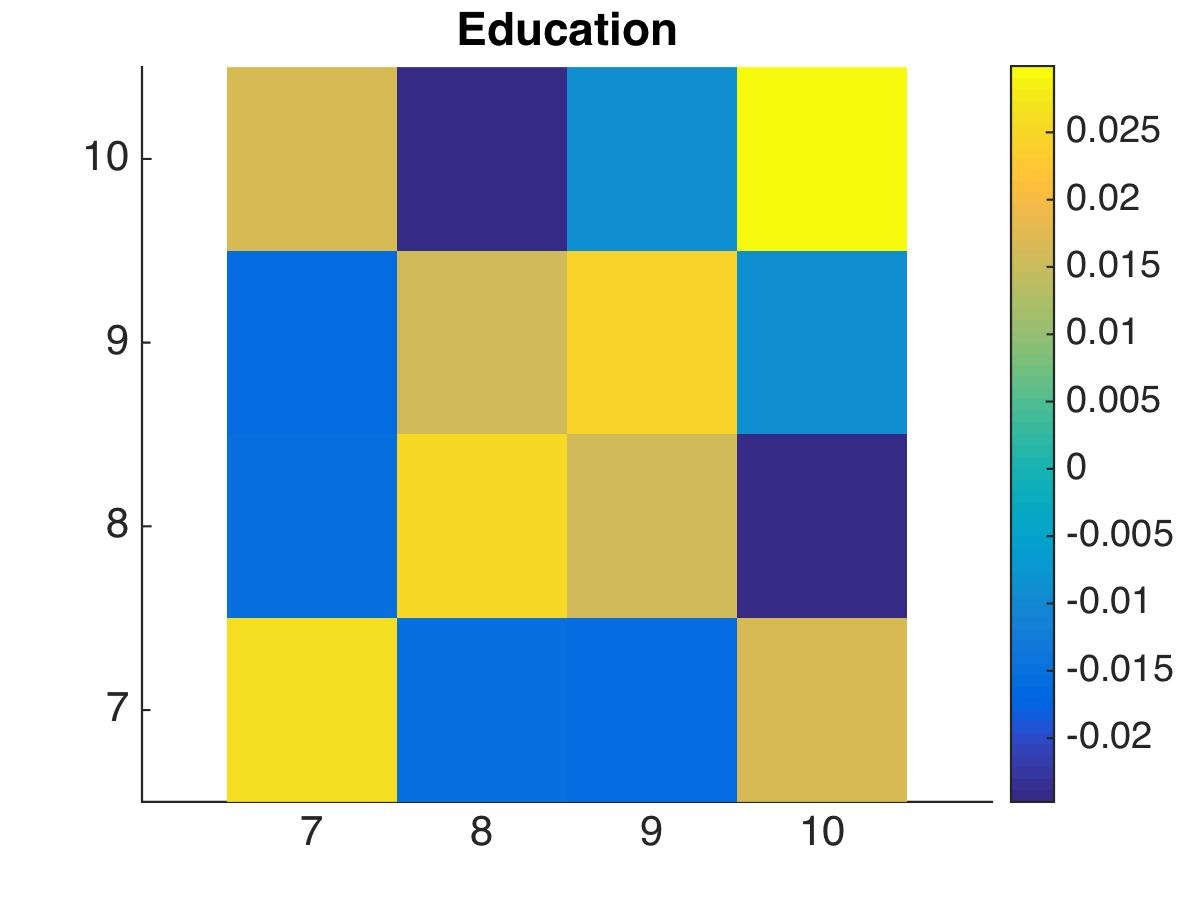
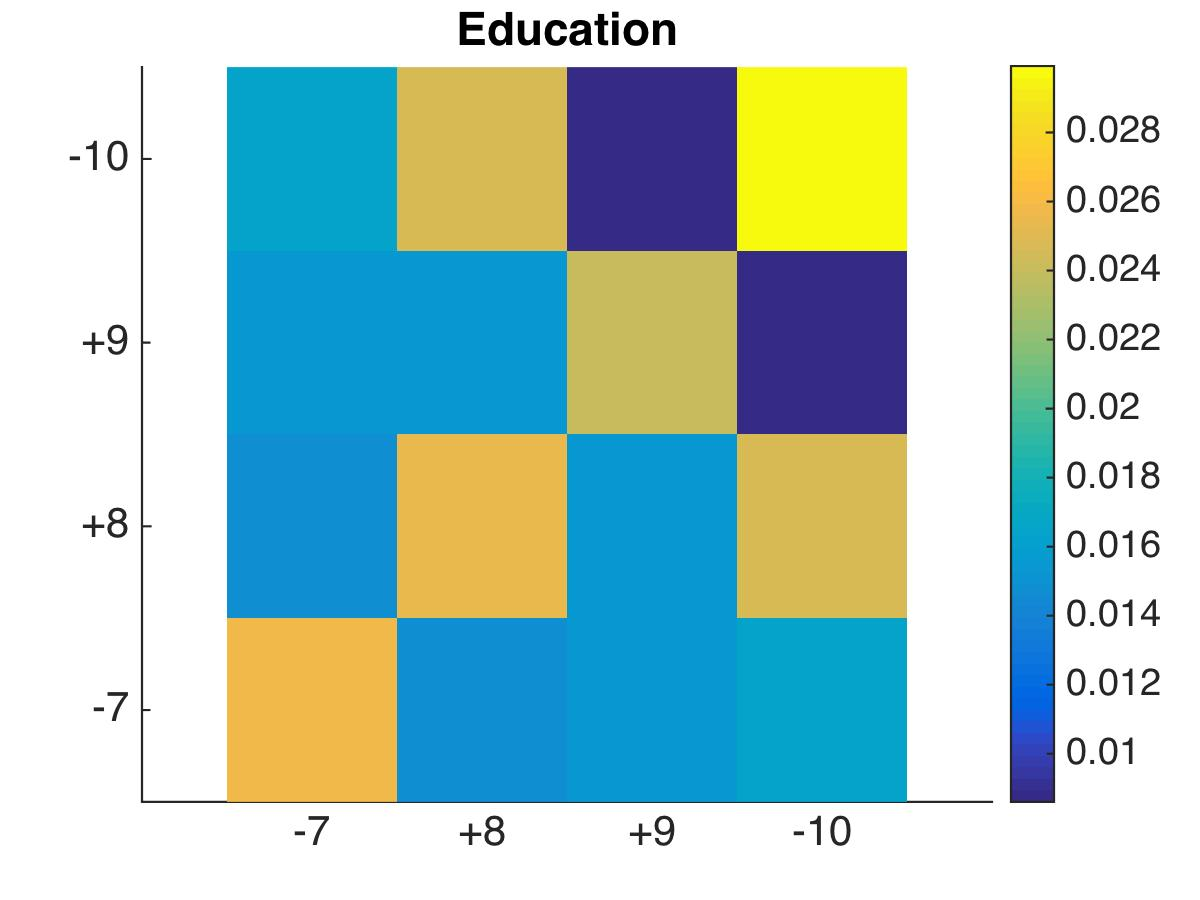
Added sign.

diff --git a/public/covvar.html b/public/covvar.html
@@ -1,1 +1,1 @@
-<head><title>Covariance</title></head><h1><a href="">Covariance and Correlation</a><a href="../">Home</a></h1><link rel="stylesheet" type="text/css" href="main.css"><style type="text/css">img{height:450;}</style><table border=1><tr><th>Subdomain</th> <th>Covariance</th> <th>Correlation</th> <th>Cronbach's alpha</th> </tr><tr><th>Economy</th><td><a href="covariance/Economy.jpg" target=_blank><img src="covariance/Economy.jpg"></a></td><td><a href="pairs/Economy.jpg" target=_blank><img src="pairs/Economy.jpg"></a></td></tr><tr><th>Education</th><td><a href="covariance/Education.jpg" target=_blank><img src="covariance/Education.jpg"></a></td><td><a href="pairs/Education.jpg" target=_blank><img src="pairs/Education.jpg"></a></td></tr><tr><th>Food and Water</th><td><a href="covariance/Food and Water.jpg" target=_blank><img src="covariance/Food and Water.jpg"></a></td><td><a href="pairs/Food and Water.jpg" target=_blank><img src="pairs/Food and Water.jpg"></a></td></tr><tr><th>Government</th><td><a href="covariance/Government.jpg" target=_blank><img src="covariance/Government.jpg"></a></td><td><a href="pairs/Government.jpg" target=_blank><img src="pairs/Government.jpg"></a></td></tr><tr><th>Housing</th><td><a href="covariance/Housing.jpg" target=_blank><img src="covariance/Housing.jpg"></a></td><td><a href="pairs/Housing.jpg" target=_blank><img src="pairs/Housing.jpg"></a></td></tr><tr><th>Medicine and Healthcare</th><td><a href="covariance/Medicine and Healthcare.jpg" target=_blank><img src="covariance/Medicine and Healthcare.jpg"></a></td><td><a href="pairs/Medicine and Healthcare.jpg" target=_blank><img src="pairs/Medicine and Healthcare.jpg"></a></td></tr><tr><th>Nurturing and Care</th><td><a href="covariance/Nurturing and Care.jpg" target=_blank><img src="covariance/Nurturing and Care.jpg"></a></td><td><a href="pairs/Nurturing and Care.jpg" target=_blank><img src="pairs/Nurturing and Care.jpg"></a></td></tr><tr><th>Well being</th><td><a href="covariance/Well being.jpg" target=_blank><img src="covariance/Well being.jpg"></a></td><td><a href="pairs/Well being.jpg" target=_blank><img src="pairs/Well being.jpg"></a></td></tr><tr><th>Engineered Systems</th><td><a href="covariance/Engineered Systems.jpg" target=_blank><img src="covariance/Engineered Systems.jpg"></a></td><td><a href="pairs/Engineered Systems.jpg" target=_blank><img src="pairs/Engineered Systems.jpg"></a></td></tr><tr><th>Vulnerability</th><td><a href="covariance/Vulnerability.jpg" target=_blank><img src="covariance/Vulnerability.jpg"></a></td><td><a href="pairs/Vulnerability.jpg" target=_blank><img src="pairs/Vulnerability.jpg"></a></td></tr><tr><th>Deprivation</th><td><a href="covariance/Deprivation.jpg" target=_blank><img src="covariance/Deprivation.jpg"></a></td><td><a href="pairs/Deprivation.jpg" target=_blank><img src="pairs/Deprivation.jpg"></a></td></tr><tr><th>Social Cohesion</th><td><a href="covariance/Social Cohesion.jpg" target=_blank><img src="covariance/Social Cohesion.jpg"></a></td><td><a href="pairs/Social Cohesion.jpg" target=_blank><img src="pairs/Social Cohesion.jpg"></a></td></tr>
+<head><title>Covariance</title></head><h1><a href="">Covariance and Correlation</a><a href="../">Home</a></h1><link rel="stylesheet" type="text/css" href="main.css"><style type="text/css">img{height:450;}</style><table border=1><tr><th>Subdomain</th> <th>Covariance</th> <th>Correlation</th> <th>Cronbach's alpha</th> </tr><tr><th>Economy</th><td><a href="covariance/Economy.jpg" target=_blank><img src="covariance/Economy.jpg"></a></td><td><a href="pairs/Economy.jpg" target=_blank><img src="pairs/Economy.jpg"></a></td></tr><tr><th>Education</th><td><a href="covariance/Education.jpg" target=_blank><img src="covariance/Education.jpg"></a></td><td><a href="pairs/Education.jpg" target=_blank><img src="pairs/Education.jpg"></a></td></tr><tr><th>FoodandWater</th><td><a href="covariance/FoodandWater.jpg" target=_blank><img src="covariance/FoodandWater.jpg"></a></td><td><a href="pairs/FoodandWater.jpg" target=_blank><img src="pairs/FoodandWater.jpg"></a></td></tr><tr><th>Government</th><td><a href="covariance/Government.jpg" target=_blank><img src="covariance/Government.jpg"></a></td><td><a href="pairs/Government.jpg" target=_blank><img src="pairs/Government.jpg"></a></td></tr><tr><th>Housing</th><td><a href="covariance/Housing.jpg" target=_blank><img src="covariance/Housing.jpg"></a></td><td><a href="pairs/Housing.jpg" target=_blank><img src="pairs/Housing.jpg"></a></td></tr><tr><th>MedicineandHealthcare</th><td><a href="covariance/MedicineandHealthcare.jpg" target=_blank><img src="covariance/MedicineandHealthcare.jpg"></a></td><td><a href="pairs/MedicineandHealthcare.jpg" target=_blank><img src="pairs/MedicineandHealthcare.jpg"></a></td></tr><tr><th>NurturingandCare</th><td><a href="covariance/NurturingandCare.jpg" target=_blank><img src="covariance/NurturingandCare.jpg"></a></td><td><a href="pairs/NurturingandCare.jpg" target=_blank><img src="pairs/NurturingandCare.jpg"></a></td></tr><tr><th>Wellbeing</th><td><a href="covariance/Wellbeing.jpg" target=_blank><img src="covariance/Wellbeing.jpg"></a></td><td><a href="pairs/Wellbeing.jpg" target=_blank><img src="pairs/Wellbeing.jpg"></a></td></tr><tr><th>EngineeredSystems</th><td><a href="covariance/EngineeredSystems.jpg" target=_blank><img src="covariance/EngineeredSystems.jpg"></a></td><td><a href="pairs/EngineeredSystems.jpg" target=_blank><img src="pairs/EngineeredSystems.jpg"></a></td></tr><tr><th>Vulnerability</th><td><a href="covariance/Vulnerability.jpg" target=_blank><img src="covariance/Vulnerability.jpg"></a></td><td><a href="pairs/Vulnerability.jpg" target=_blank><img src="pairs/Vulnerability.jpg"></a></td></tr><tr><th>Deprivation</th><td><a href="covariance/Deprivation.jpg" target=_blank><img src="covariance/Deprivation.jpg"></a></td><td><a href="pairs/Deprivation.jpg" target=_blank><img src="pairs/Deprivation.jpg"></a></td></tr><tr><th>SocialCohesion</th><td><a href="covariance/SocialCohesion.jpg" target=_blank><img src="covariance/SocialCohesion.jpg"></a></td><td><a href="pairs/SocialCohesion.jpg" target=_blank><img src="pairs/SocialCohesion.jpg"></a></td></tr>

diff --git a/test.html b/test.html
@@ -1,0 +1,1 @@
+<a href="data/1.csv">1</a>, <a href="data/3.csv">3</a>, <a href="data/4.csv">4</a>, <a href="data/5.csv">5</a>, <a href="data/6.csv">6</a>, <a href="data/7.csv">7</a>, <a href="data/8.csv">8</a>, <a href="data/9.csv">9</a>, <a href="data/10.csv">10</a>, <a href="data/11.csv">11</a>, <a href="data/12.csv">12</a>, <a href="data/14.csv">14</a>, <a href="data/15.csv">15</a>, <a href="data/16.csv">16</a>, <a href="data/17.csv">17</a>, <a href="data/18.csv">18</a>, <a href="data/19.csv">19</a>, <a href="data/20.csv">20</a>, <a href="data/21.csv">21</a>, <a href="data/22.csv">22</a>, <a href="data/23.csv">23</a>, <a href="data/24.csv">24</a>, <a href="data/25a.csv">25a</a>, <a href="data/25b.csv">25b</a>, <a href="data/26.csv">26</a>, <a href="data/30.csv">30</a>, <a href="data/31.csv">31</a>, <a href="data/32.csv">32</a>, <a href="data/38.csv">38</a>, <a href="data/42.csv">42</a>, <a href="data/43.csv">43</a>, <a href="data/44.csv">44</a>, <a href="data/45.csv">45</a>, <a href="data/48.csv">48</a>, <a href="data/49.csv">49</a>, <a href="data/50a.csv">50a</a>, <a href="data/50b.csv">50b</a>, <a href="data/51.csv">51</a>, <a href="data/52.csv">52</a>, <a href="data/54.csv">54</a>, <a href="data/55.csv">55</a>, <a href="data/56.csv">56</a>, <a href="data/57.csv">57</a>, <a href="data/60.csv">60</a>, <a href="data/63.csv">63</a>, <a href="data/64.csv">64</a>, <a href="data/65.csv">65</a>, <a href="data/66.csv">66</a>, <a href="data/67.csv">67</a>, <a href="data/68.csv">68</a>, <a href="data/69.csv">69</a>, <a href="data/73.csv">73</a>, <a href="data/74.csv">74</a>, <a href="data/75.csv">75</a>, <a href="data/76.csv">76</a>, <a href="data/77.csv">77</a>, <a href="data/78.csv">78</a>, <a href="data/901.csv">901</a>, <a href="data/902.csv">902</a>, 

diff --git a/subdomain.m b/subdomain.m
@@ -1,64 +1,13 @@
-function subdomain()
+%function subdomain()
+clear, clc
 %% Definition of print and plot functions
-format_img = @(filename) sprintf('<a href="%s" target=_blank><img src="%s"></a>', filename, filename);
-    function plotCov(arr, measures, subdomain)
-        filelink = sprintf('covariance/%s.jpg', subdomain);
-        filepath = ['public/', filelink];
-        if ~exist(filepath, 'file')
-            N = size(arr, 2);
-            clf, hold on;
-            imagesc(1:N, 1:N, cov(arr));
-            colorbar
-            set(gca, 'FontSize', 20);
-            set(gca, 'XTick', 1:N);
-            set(gca, 'YTick', 1:N);
-            set(gca, 'XTickLabel', measures);
-            set(gca, 'YTickLabel', measures);
-            title(subdomain);
-            saveas(gcf, filepath);
-        end
-        fprintf(fid, '<td>%s</td>', format_img(filelink));
-    end
 
-    function plotPairs(arr, measures, subdomain)
-        filelink = sprintf('pairs/%s.jpg', subdomain);
-        filepath = ['public/', filelink];
-        if ~exist(filepath, 'file')
-            clf, hold on;
-            corrplot(arr, 'varNames', measures);
-            saveas(gcf, filepath);
-        end
-        fprintf(fid, '<td>%s</td>', format_img(filelink));
-    end
-    function [arr, measureList] = fetch_data(measures)
-        measureList = strsplit(measures);
-        for i = 1:length(measureList)
-            id = measureList{i};
-            filename = sprintf('data_scaled/%s.csv', id);
-            T = readtable(filename);
-            T.Properties.VariableNames{'value'} = ['measure', id];
-            if i == 1
-                Tall = T;
-            else
-                Tall = innerjoin(Tall, T);
-            end
-        end
-        arr = table2array(Tall);
-        arr = arr(:, 2:end);
-    end
 %% Begin of main
-toplot = {{'3 4 5 6', 'Economy'};
-    {'7 8 9 10', 'Education'};
-    {'11 12 14 68', 'Food and Water'};
-    {'15 16 17 18', 'Government'};
-    {'19 20 21 22', 'Housing'};
-    {'23 24 25a 25b 26', 'Medicine and Healthcare'};
-    {'30 31 32', 'Nurturing and Care'};
-    {'42 43 44', 'Well being'};
-    {'45 51 52 48 49 50a 50b 54', 'Engineered Systems'};
-    {'55 56 57 60', 'Vulnerability'};
-    {'64 65 66 67 69', 'Deprivation'};
-    {'73 74 75 76 77 78', 'Social Cohesion'}};
+SD = load_list('list.xlsx');
+
+
+
+
 
 fid = fopen('public/covvar.html', 'w');
 fprintf(fid, '<head><title>Covariance</title></head>');
@@ -69,18 +18,22 @@ fprintf(fid, '<style type="text/css">img{height:450;}</style>');
 fprintf(fid, '<table border=1>');
 fprintf(fid, '<tr><th>Subdomain</th> <th>Covariance</th> <th>Correlation</th> <th>Cronbach''s alpha</th> </tr>');
 
-for i_toplot = 1:length(toplot)
-    [arr, measures] = fetch_data(toplot{i_toplot}{1});
-    subdomain = toplot{i_toplot}{2};
-    fprintf(fid, '<tr><th>%s</th>', subdomain);
-    
-    plotCov(arr, measures, subdomain);
-    plotPairs(arr, measures, subdomain);
-    fprintf(fid, '</tr>');
-    disp(subdomain);
+fields = fieldnames(SD);
+for i_toplot = 1:length(fields)
+    sd = fields{i_toplot};
+    [arr, measures] = fetch_data(SD.(sd));
+    if length(measures) > 1
+        
+        fprintf(fid, '<tr><th>%s</th>', sd);
+        
+        fprintf(fid, plotCov(arr, measures, sd));
+        fprintf(fid, plotPairs(arr, measures, sd));
+        fprintf(fid, '</tr>');
+        disp(sd);
+    end
 end
 fclose(fid);
 
 
-end
+%end
 

diff --git a/plotCov.m b/plotCov.m
@@ -1,0 +1,19 @@
+ function toprint = plotCov(arr, measures, subdomain)
+        filelink = sprintf('covariance/%s.jpg', subdomain);
+        filepath = ['public/', filelink];
+        if ~exist(filepath, 'file')
+            N = size(arr, 2);
+            clf, hold on;
+            imagesc(1:N, 1:N, cov(arr));
+            colorbar
+            set(gca, 'FontSize', 20);
+            set(gca, 'XTick', 1:N);
+            set(gca, 'YTick', 1:N);
+            set(gca, 'XTickLabel', measures);
+            set(gca, 'YTickLabel', measures);
+            title(subdomain);
+            saveas(gcf, filepath);
+        end
+        format_img = @(filename) sprintf('<a href="%s" target=_blank><img src="%s"></a>', filename, filename);
+        toprint = sprintf('<td>%s</td>', format_img(filelink));
+    end

diff --git a/fetch_data.m b/fetch_data.m
@@ -1,0 +1,28 @@
+function [arr, measureList] = fetch_data(measures)
+measureList = strsplit(measures);
+for i = 1:length(measureList)
+    direction = measureList{i}(1);
+    id = measureList{i}(2:end);
+    filename = sprintf('data_scaled/%s.csv', id);
+    
+    T = readtable(filename);
+    
+    switch direction
+        case '+'
+            % do nothing
+        case '-'
+            T{:, 'value'} = 1 - T{:, 'value'};
+        otherwise
+            error
+    end
+    
+    T.Properties.VariableNames{'value'} = ['measure', id];
+    if i == 1
+        Tall = T;
+    else
+        Tall = innerjoin(Tall, T);
+    end
+end
+arr = table2array(Tall);
+arr = arr(:, 2:end);
+end

diff --git a/load_list.m b/load_list.m
@@ -1,0 +1,16 @@
+ function SD = load_list(filename)
+        to_ID = @(name) strrep(strtrim(name), ' ', '');
+        [~,~,raw] = xlsread(filename);
+        SD = [];
+        for i = 2:size(raw, 1)
+            direction = raw{i, 5};
+            id = num2str(raw{i, 1});
+            idstr = sprintf('%s%s', strtrim(direction), strtrim(id));
+            subdomain = to_ID(raw{i, 4});
+            if isfield(SD, subdomain)
+                SD.(subdomain) = [SD.(subdomain), ' ', idstr];
+            else
+                SD.(subdomain) = idstr;
+            end
+        end
+    end

diff --git a/plotPairs.m b/plotPairs.m
@@ -1,0 +1,12 @@
+ function toprint = plotPairs(arr, measures, subdomain)
+        filelink = sprintf('pairs/%s.jpg', subdomain);
+        filepath = ['public/', filelink];
+        if ~exist(filepath, 'file')
+            clf, hold on;
+            corrplot(arr, 'varNames', measures);
+            saveas(gcf, filepath);
+        end
+        format_img = @(filename) sprintf('<a href="%s" target=_blank><img src="%s"></a>', filename, filename);
+        
+        toprint = sprintf('<td>%s</td>', format_img(filelink));
+    end
